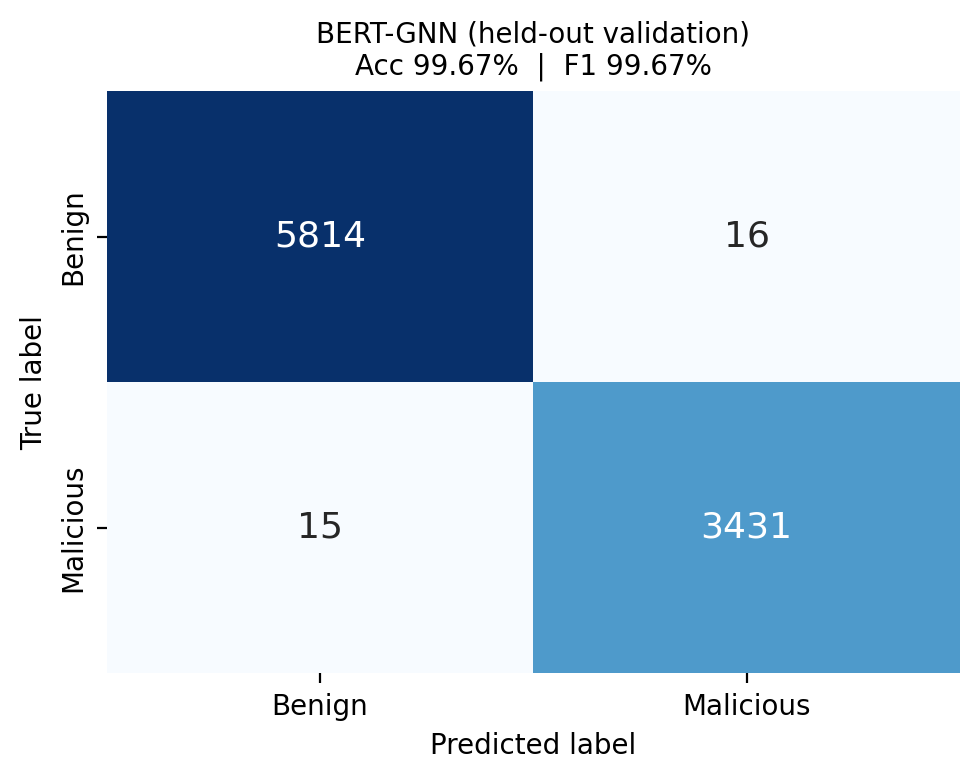
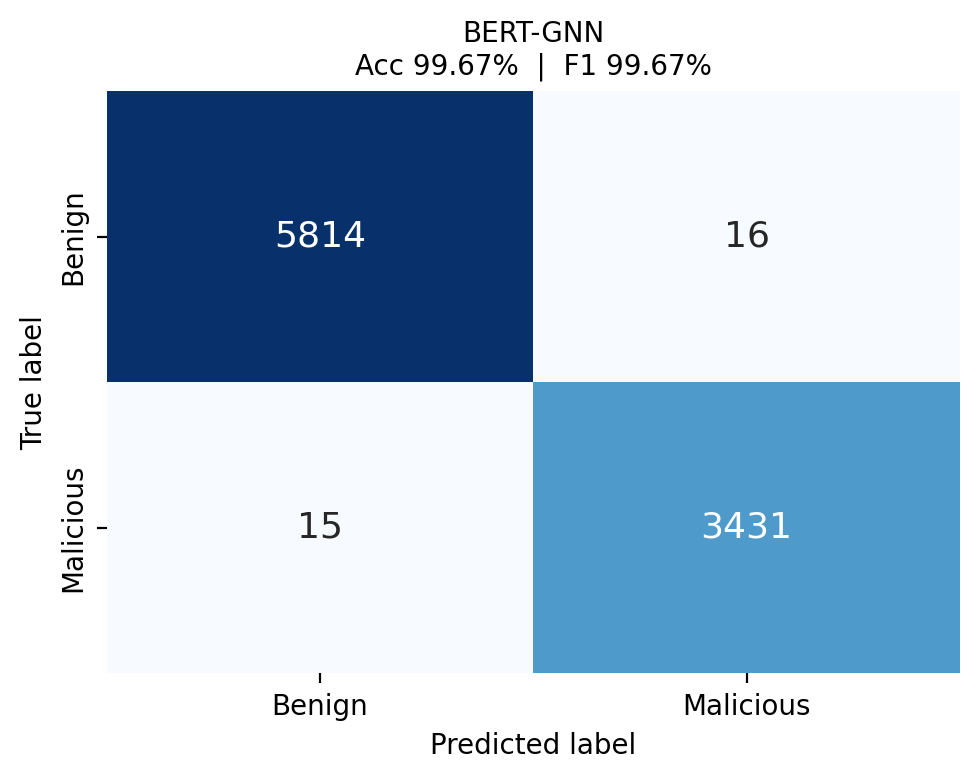
Neutral CM title (BERT-GNN); comparison already drops leaky bar
Confusion-matrix figure title no longer says 'held-out validation' now that the
held-out protocol is described in Methods rather than framed as a correction.

Changed region(s): [[0.3061, 0.0, 0.7653, 0.0615]]

diff --git a/make_result_figures.py b/make_result_figures.py
@@ -28,7 +28,7 @@ MODELS = {
     "Original BERT-GNN (test used for selection)": {
         "cm": [[5815, 15], [33, 3413]], "acc": 99.48, "f1": 99.48,
         "file": "cm_original_bertgnn.png"},
-    "BERT-GNN (held-out validation)": {
+    "BERT-GNN": {
         "cm": [[5814, 16], [15, 3431]], "acc": 99.67, "f1": 99.67,
         "file": "cm_corrected_bertgnn_heldout.png"},
     "BERT [CLS] + Logistic Regression": {
